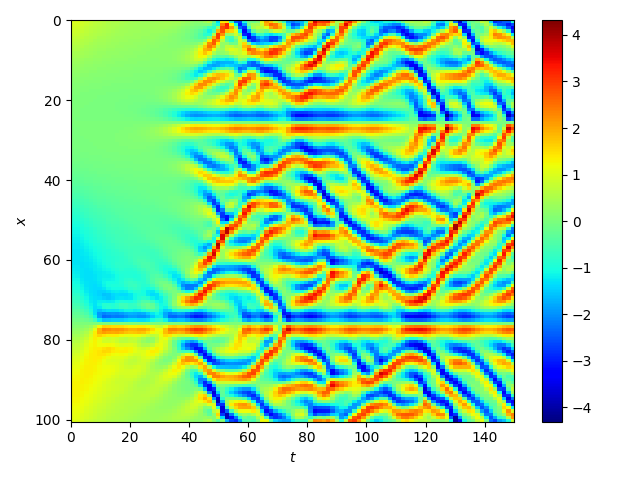
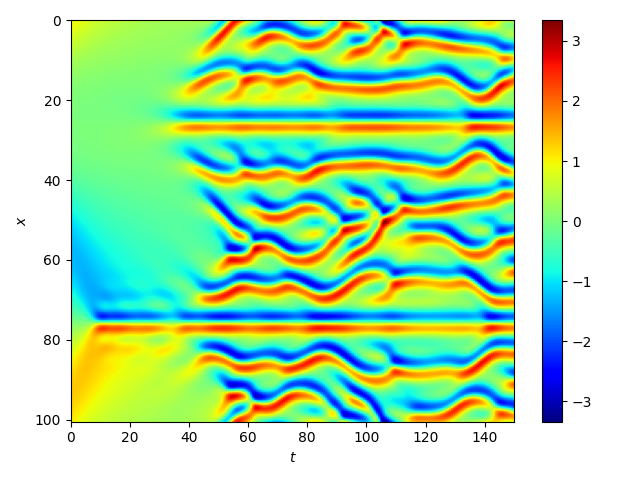
ETDRK4 - Allen Cahn

diff --git a/codes/allencahn.py b/codes/allencahn.py
@@ -1,0 +1,77 @@
+import numpy as np
+import scipy.linalg as sl
+from tqdm import trange
+import matplotlib.pyplot as plt
+
+from cheb import cheb
+
+
+# spatial grid
+N = 50
+D, x = cheb(N)
+x = x[1:-1]
+w = 0.53 * x + 0.47 * np.sin(-1.5 * np.pi * x) - x
+u = np.hstack([1, w+x, -1])
+
+
+# precomputing
+h = 1/4
+M = 32
+r = 15 * np.exp(1j * np.pi * (np.arange(1, M+1) - 0.5) / M)
+L = D[1:-1, 1:-1]
+L = 0.01 * L @ L
+A = h * L
+E = sl.expm(A)
+E2 = sl.expm(A / 2)
+I = np.eye(N-1, dtype="complex128")
+Z = np.zeros((N-1, N-1), dtype="complex128")
+f1, f2, f3, Q = np.copy(Z), np.copy(Z), np.copy(Z), np.copy(Z)
+for z in r:
+    zIA = sl.inv(z*I - A)
+    Q += h * zIA * (np.exp(z/2) - 1)
+    f1+= h * zIA * (-4 - z + np.exp(z) * (4 - 3 * z + z**2)) / z**2
+    f2+= h * zIA * (2 + z + np.exp(z) * (z - 2)) / z**2
+    f3+= h * zIA * (-4 - 3 * z - z**2 + np.exp(z) * (4 - z)) / z**2
+
+f1 = f1.real / M
+f2 = f2.real / M
+f3 = f3.real / M
+Q  = Q.real  / M
+
+uu = [u]
+t = 0.
+tt = [t]
+tmax = 70
+nmax = int(tmax / h)
+nplt = 2
+
+
+def step(t, w):
+    t = t + h
+    Nu = (w + x) - (w + x)**3
+    a = E2 @ w + Q @ Nu
+    Na = (a + x) - (a + x)**3
+    b = E2 @ w + Q @ Na
+    Nb = (b + x) - (b + x)**3
+    c = E2 @ a + Q @ (2 * Nb - Nu)
+    Nc = (c + x) - (c + x)**3
+    w = E @ w + f1 @ Nu + 2 * f2 @ (Na + Nb) + f3 @ Nc
+    return t, w
+
+for n in trange(1, nmax + 1):
+    t, w = step(t, w)
+    if n % nplt == 0:
+        u = np.hstack([1, w+x, -1])
+        uu.append(u), tt.append(t)
+
+tt = np.stack(tt)
+uu = np.stack(uu)
+_, ax = plt.subplots(figsize=(6,6), subplot_kw={"projection":"3d"})
+xx = np.hstack([1, x, -1])
+t, x = np.meshgrid(tt, xx, indexing="ij")
+surf = ax.plot_surface(x,t, uu, cmap='jet')
+ax.set_xlabel(r"$x$")
+ax.set_ylabel(r"$t$")
+ax.view_init(elev=45, azim=-135)
+plt.colorbar(surf)
+plt.savefig("../figures/allencahn.png")

diff --git a/codes/cheb.py b/codes/cheb.py
@@ -1,0 +1,15 @@
+import numpy as np
+
+
+def cheb(N):
+    if N==0:
+        return 0, 1
+    
+    x = np.cos(
+        np.pi * np.linspace(0, 1, N+1)
+    )
+    c = np.array([2] + [1]*(N-1) + [2]) * (-1 * np.ones(N+1))**np.arange(N+1)
+    dX = x[:,None] - x
+    D = c[:,None] / c / (dX + np.eye(N+1))
+    D = D - np.diag(D.sum(1))
+    return D, x
